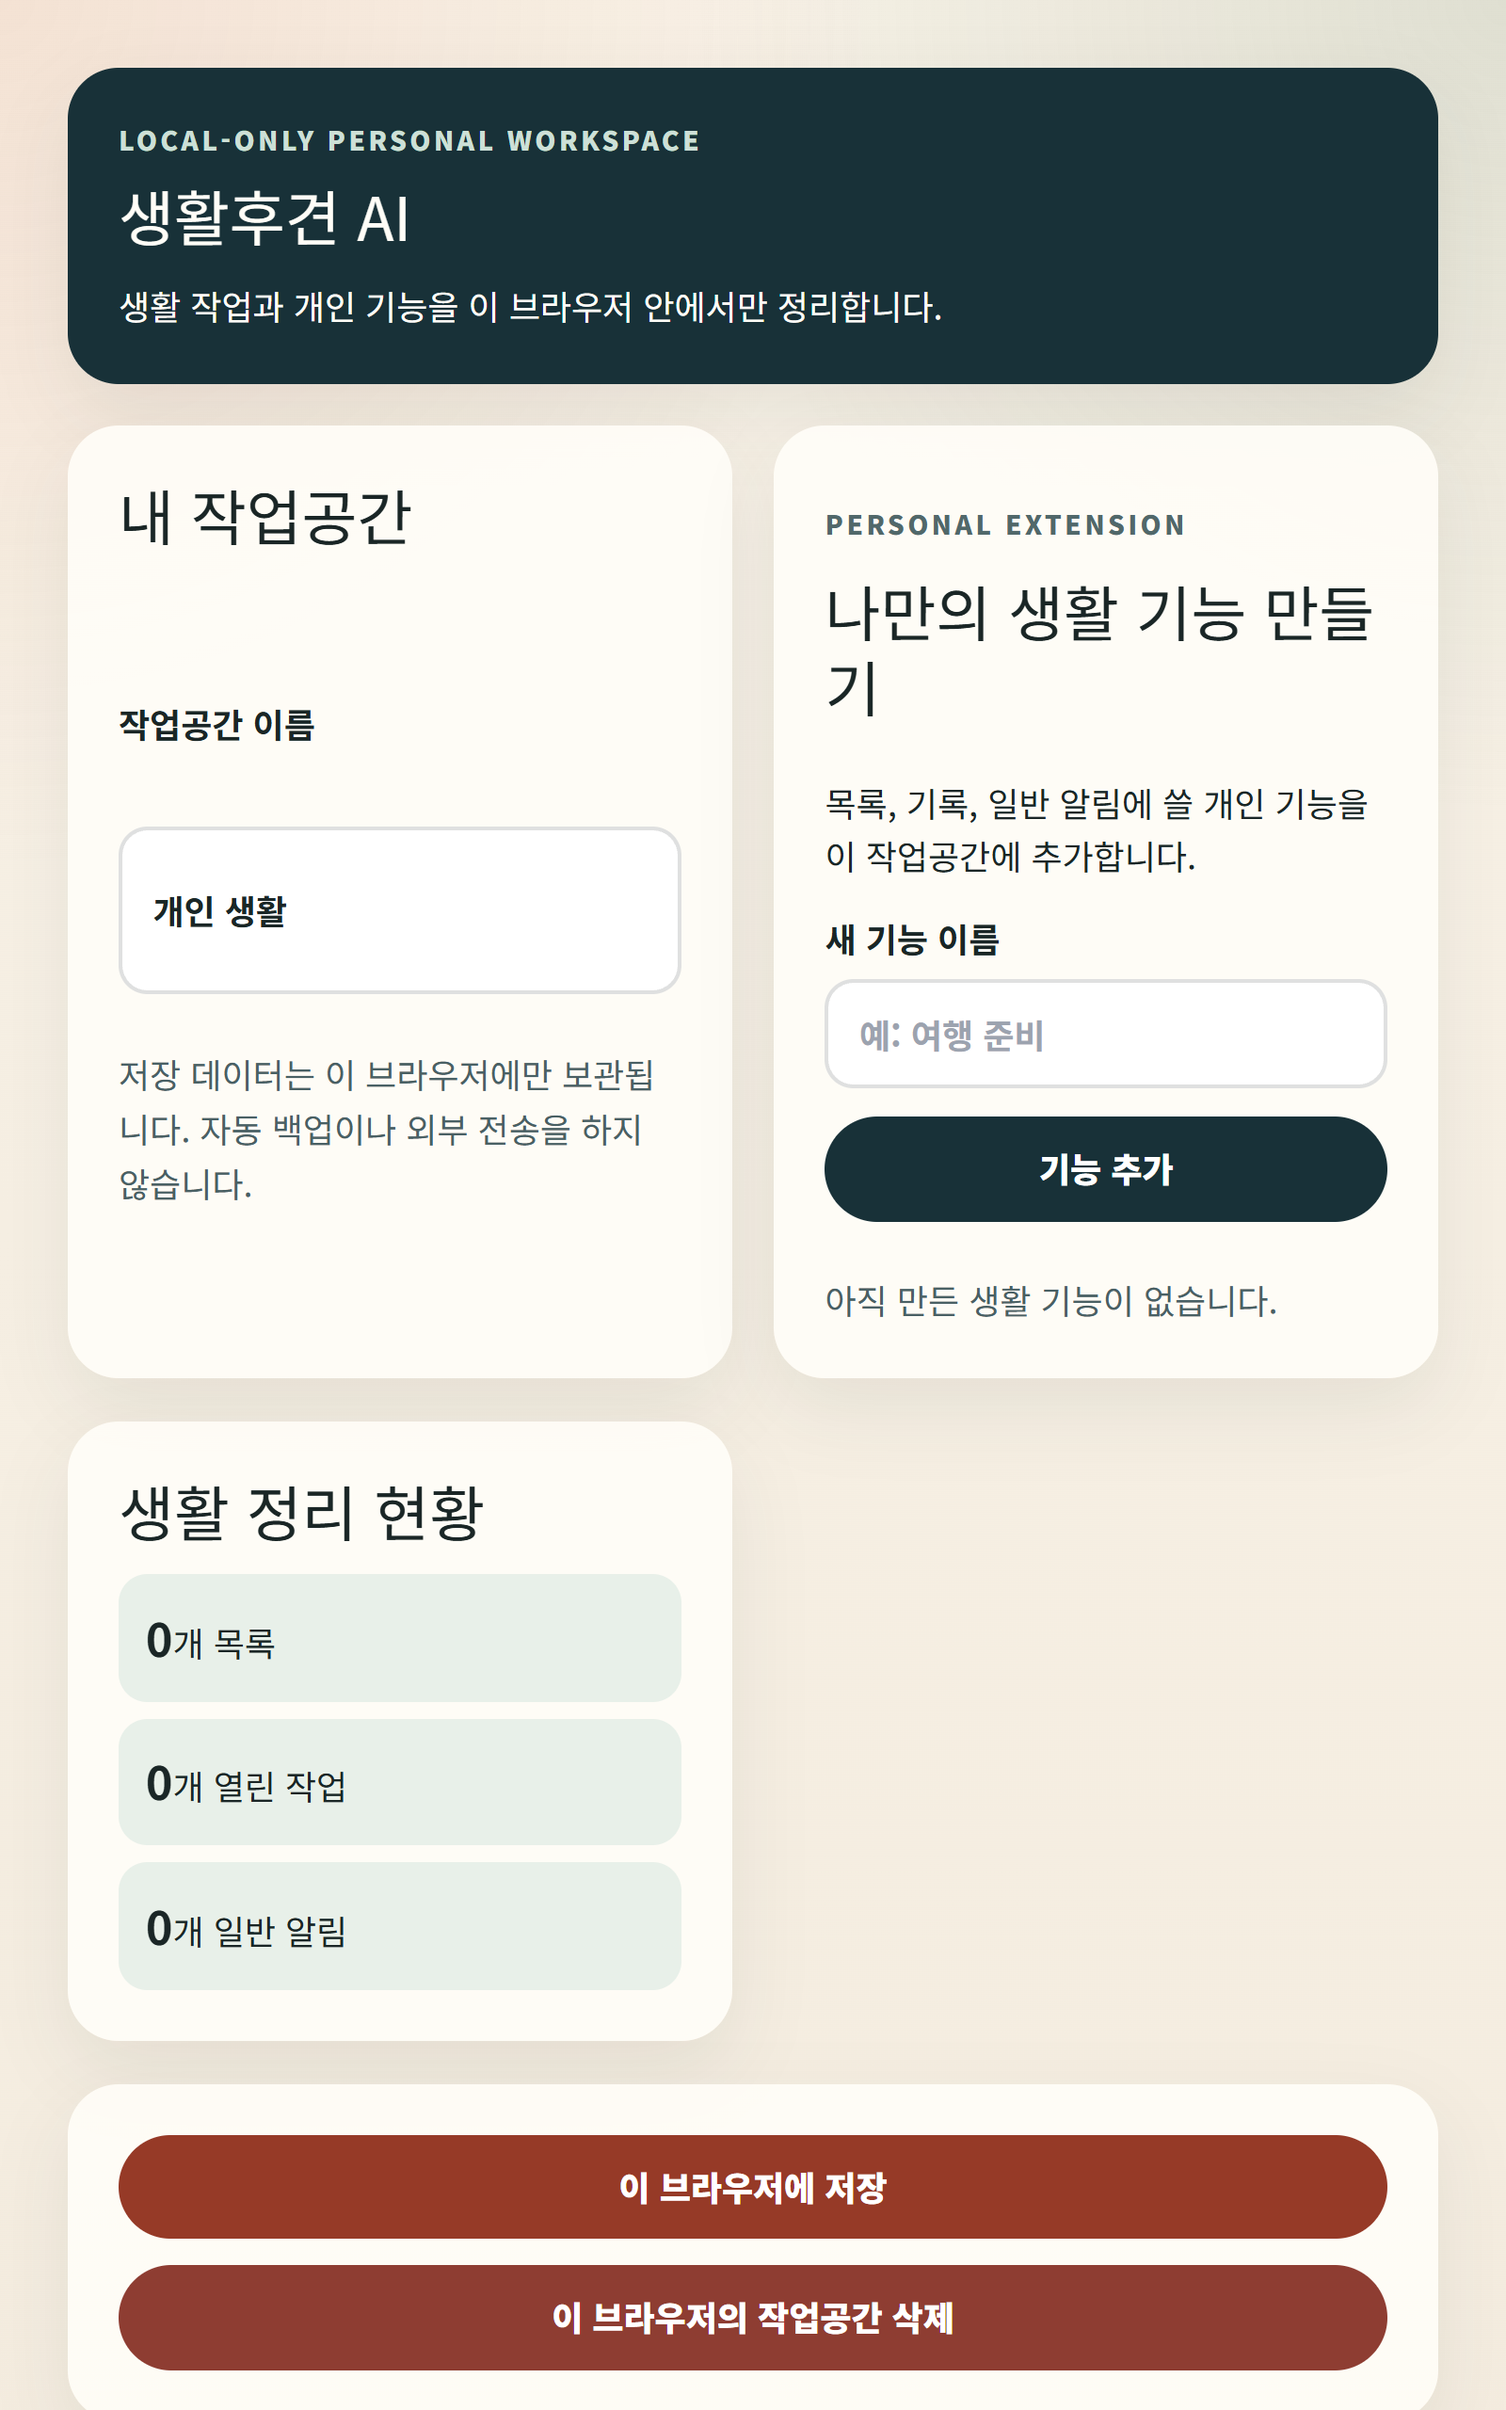
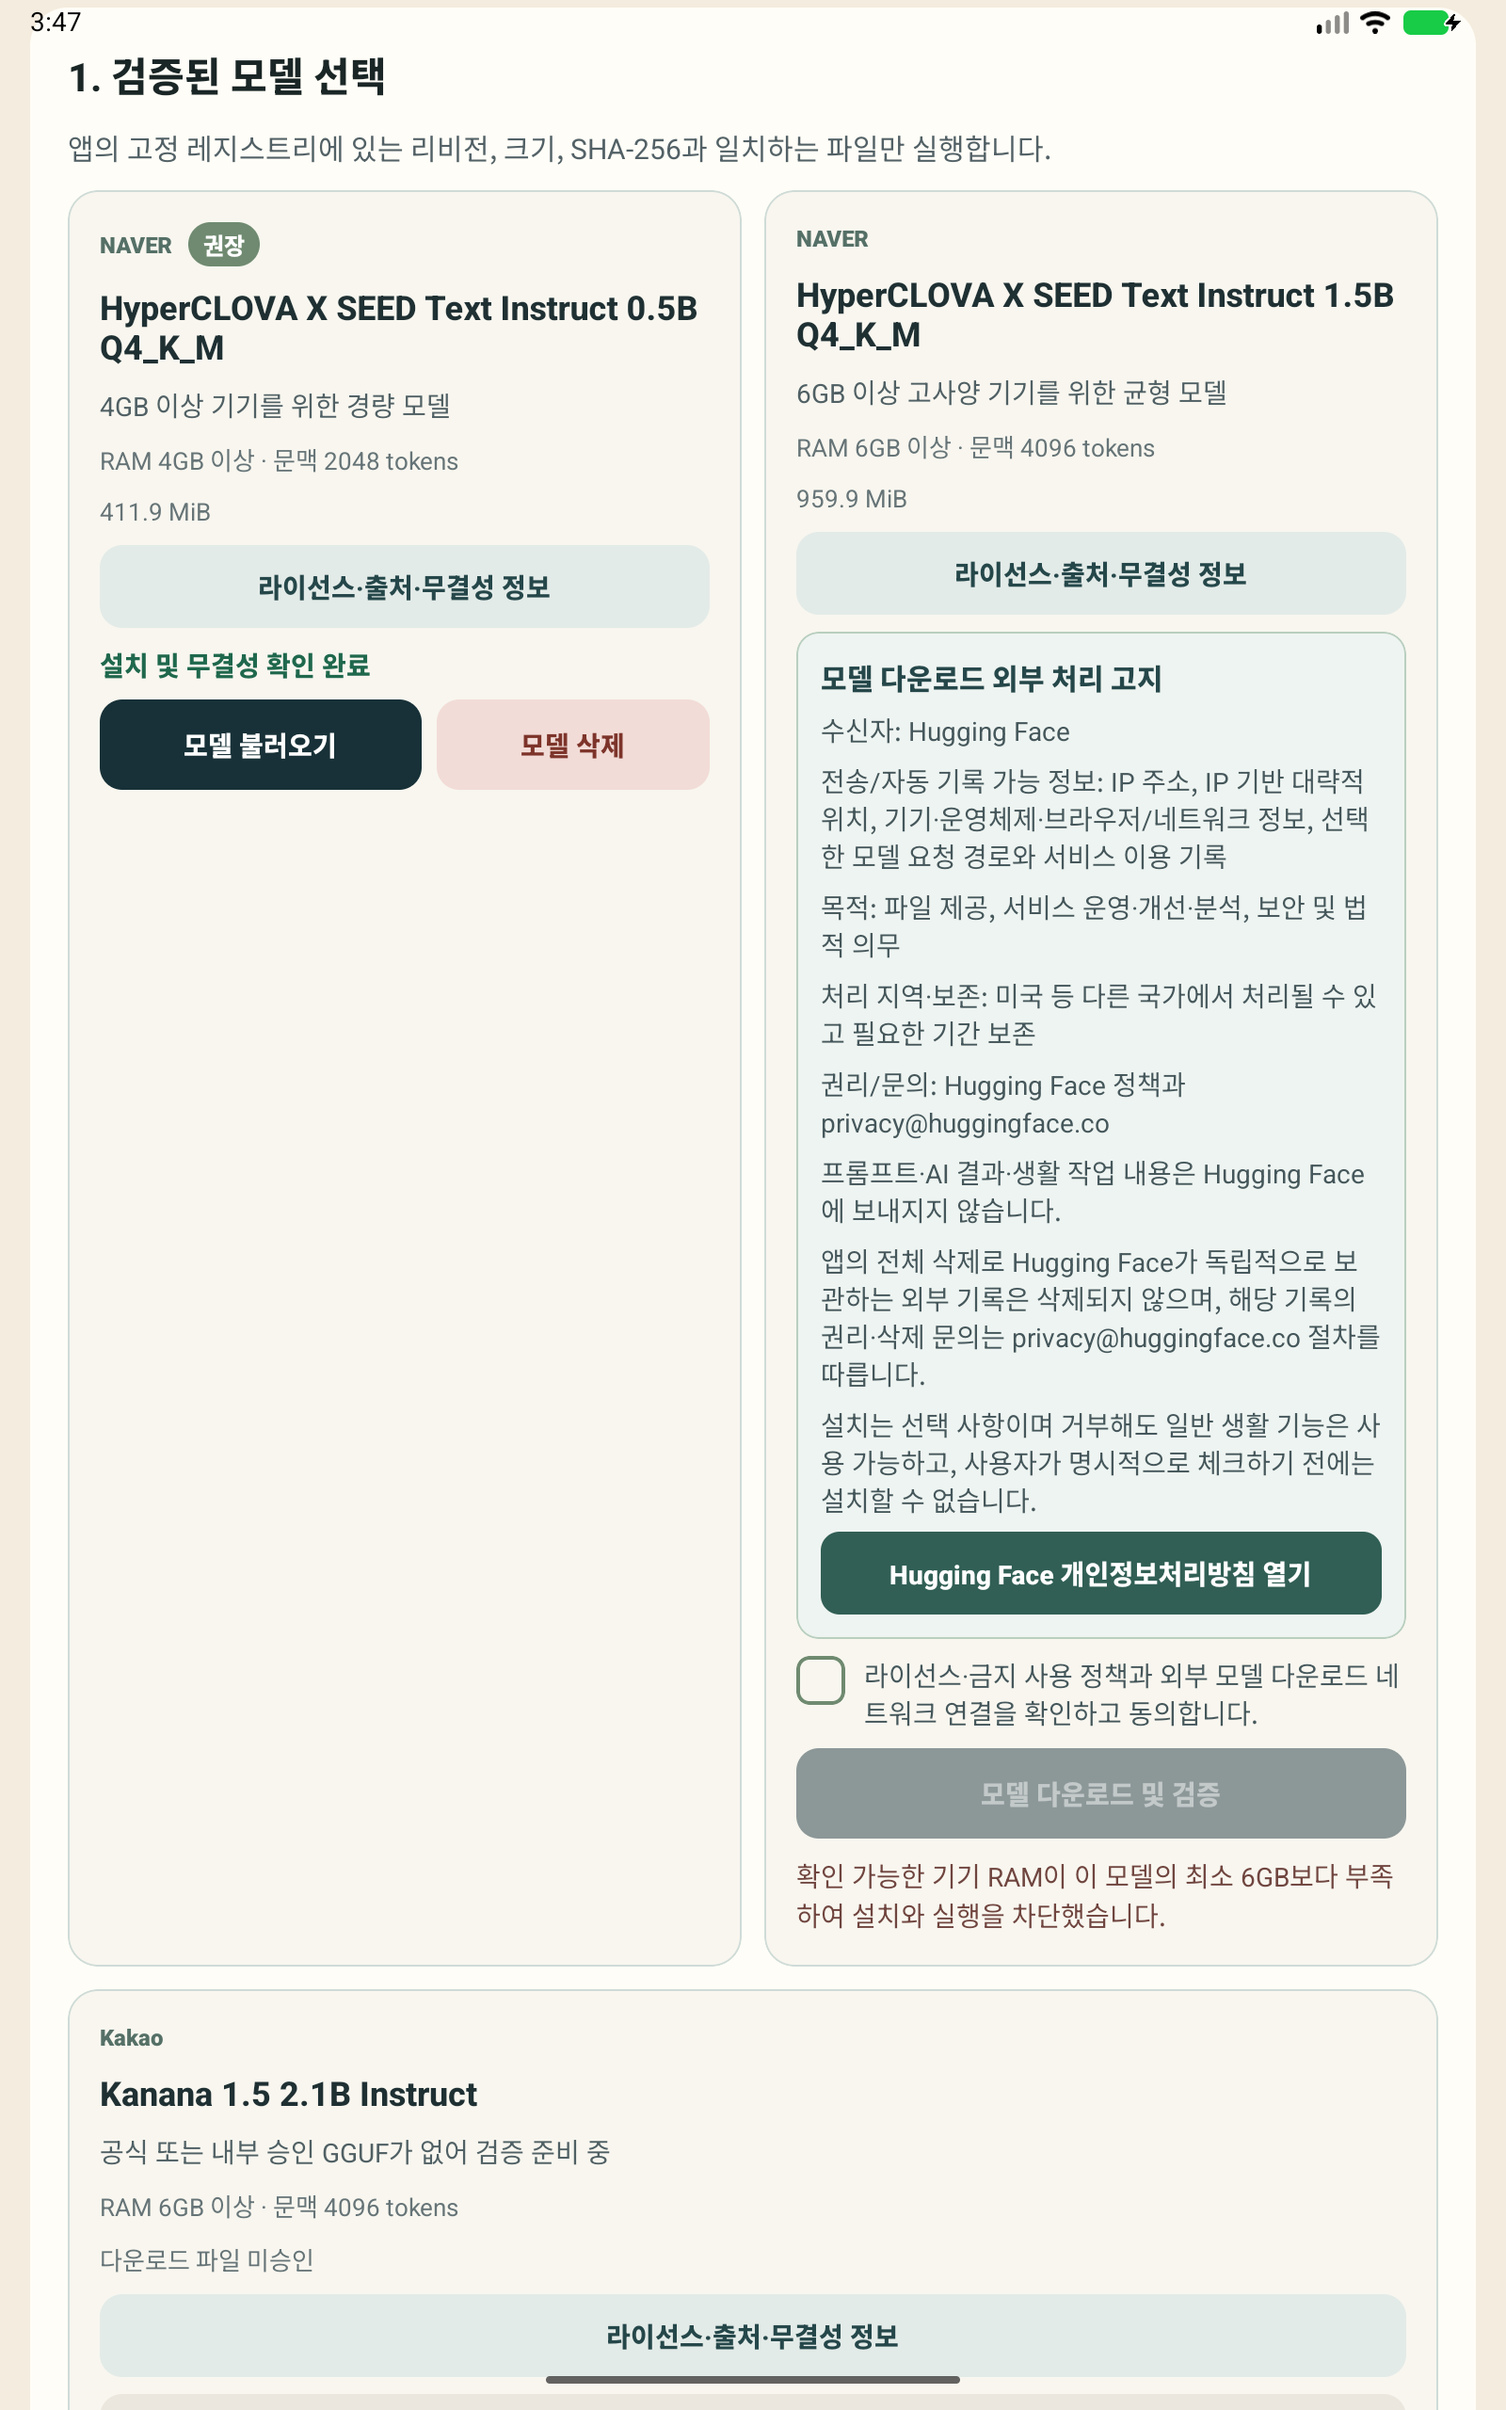
docs: Android 비공개 테스트 후보 증거와 자산 확정

diff --git a/docs/security/android-aab-evidence-2026-07-31.md b/docs/security/android-aab-evidence-2026-07-31.md
@@ -1,0 +1,104 @@
+# Android 1.1.0 (7) 비공개 테스트 후보 증거
+
+- 검증일: 2026-07-31 (Asia/Seoul)
+- 대상 소스: `d990c4784526f9eccc33ee558579dc806b9bbaea`
+- 앱: `생활후견 AI` / `com.sinmb.careguardianai`
+- 판정: **합성·비민감 데이터 비공개 테스트용 AAB 후보 PASS**
+- 남은 외부 단계: 이 AAB와 아래 Android-native 자산을 Play Console 문안·선언·Data safety에 대조하고 기존 비공개 테스트 release를 교체
+
+이 판정은 합성 데이터 비공개 테스트 후보에만 적용합니다. Samsung/Pixel 물리 기기 증거와 발견사항 처리가 끝나기 전에는 실제 개인정보·민감정보 사용과 정식 출시를 허용하지 않습니다.
+
+## 1. EAS production 빌드
+
+| 항목 | 확인값 |
+|---|---|
+| EAS build ID | `28f9bafa-73a7-4316-a1d5-1764ef6dd516` |
+| 상태 | `FINISHED` |
+| source SHA | `d990c4784526f9eccc33ee558579dc806b9bbaea` |
+| EAS fingerprint | `49fad510f2d57623475a94331872c1366a34f531` |
+| versionName / versionCode | `1.1.0` / `7` |
+| 완료 시각 | `2026-07-31T04:05:19.396Z` |
+| AAB 크기 | `98,668,069` bytes |
[1 lines of base64/hex data omitted]
+
+EAS의 AAB JAR 서명은 `jarsigner -verify -verbose -certs`에서 `jar verified`로 확인했습니다. 로컬 universal APK는 AAB 검증과 에뮬레이터 설치를 위해 bundletool이 별도 디버그 키로 서명한 QA 파생물이며 Play에 업로드하거나 배포하지 않습니다.
+
+앞선 원격 실패의 원인은 Windows에서 생성된 `apps/mobile/android`와 절대 경로 기반 stale autolinking 파일이 EAS archive에 포함된 것이었습니다. `.easignore` 출시 게이트와 fresh archive 검사로 생성 Android 트리를 제외한 뒤 같은 production 흐름이 성공했습니다. 상세 원인과 archive 검사는 [EAS archive 검사 증거](./eas-archive-inspection-2026-07-31.md)에 기록했습니다.
+
+## 2. AAB 정적 검사
+
+bundletool manifest, 저장소의 CPU-only 검사기, AAB와 universal APK 쌍의 원격 푸시 부재 검사로 다음을 확인했습니다.
+
+| 검사 | 결과 |
+|---|---|
+| package | `com.sinmb.careguardianai` |
+| version | `1.1.0 (7)` |
+| minSdk / targetSdk / compileSdk | `24` / `36` / `36` |
+| Android 백업 | `android:allowBackup="false"` |
+| debug surface | AAB manifest에 `android:debuggable` 없음 |
+| CPU ABI | `arm64-v8a`, `x86_64` CPU rnllama JNI 확인 |
+| 가속기 산출물 | Hexagon, OpenCL, HTP, Vulkan, GPU 관련 AAB entry `0` |
+| 원격 푸시 | AAB `776` entries + universal APK `728` entries, DEX package gate 포함 `PASS` |
+| 광고·분석 | Firebase Messaging/Installations, Cloud Messaging/DataTransport, ShortcutBadger, 광고 ID namespace `0` |
+| AAB CPU-only 증거 | `cpu-only-aab-d990c47-evidence.json`, AAB SHA와 일치 |
+
+AAB가 선언한 권한은 아래뿐입니다.
+
+- `android.permission.INTERNET`
+- `android.permission.POST_NOTIFICATIONS`
+- `android.permission.USE_BIOMETRIC`
+- `android.permission.USE_FINGERPRINT`
+- `android.permission.RECEIVE_BOOT_COMPLETED`
+- Android 14 이상용 `android.permission.DETECT_SCREEN_CAPTURE`
+- 앱 전용 `com.sinmb.careguardianai.DYNAMIC_RECEIVER_NOT_EXPORTED_PERMISSION`
+
+카메라, 마이크, 연락처, 위치, 외부 저장소, Health Connect, `AD_ID`, 정확 알람 권한은 없습니다. Android release merged manifest 계약 검사도 `PASS`했습니다.
+
+## 3. universal APK 설치·실행
+
+bundletool `1.18.3`으로 위 AAB에서 universal APK를 만들었습니다.
+
+| 항목 | 확인값 |
+|---|---|
+| universal APK 크기 | `167,664,835` bytes |
[2 lines of base64/hex data omitted]
+| 설치 대상 | Android x86_64 emulator `emulator-5554` |
+| 설치 결과 | `Success`, `1.1.0 (7)`, target SDK `36` |
+| 실행 결과 | `com.sinmb.careguardianai/.MainActivity`가 top-resumed, 앱 process 유지, 치명적 예외 없음 |
+| 첫 화면 | 빈 개인 생활 작업공간, 오늘·목록·기능 만들기·로컬 AI·설정 탭 확인 |
+
+검증 후 QA 앱 데이터와 앱을 제거했습니다. 임시 기기 PIN을 삭제하고 화면 크기·밀도와 animation scale을 기본값으로 복원했으며 Wi-Fi와 mobile data를 활성 상태로 확인했습니다.
+
+같은 source SHA에서 만든 x86_64 로컬 release QA APK도 설치·실행과 manifest 검사를 통과했습니다. 이 APK는 디버그 인증서로 서명된 비배포 QA 산출물입니다.
+
+| 항목 | 확인값 |
+|---|---|
+| x86_64 QA APK 크기 | `52,159,310` bytes |
[2 lines of base64/hex data omitted]
+
+## 4. Android-native Play 스크린샷
+
+합성·비민감 생활 데이터만 사용한 Android 앱 화면 8장을 `docs/screenshots/`에 반영했습니다. 모든 PNG는 8-bit opaque RGB, 8MB 미만, 장변/단변 비율 2:1 이하입니다.
+
+| 파일 | 크기 | SHA-256 |
+|---|---:|---|
[8 lines of base64/hex data omitted]
+
+Production 앱은 `usePreventScreenCapture("life-steward-personal-workspace")`를 유지하므로 Android screencap으로 등록 이미지를 만들 수 없습니다. 캡처에는 production과 기능·화면 소스가 같은 격리 복제본을 사용하고 캡처 차단 hook 두 줄만 일시적으로 제거했습니다. 이 캡처용 코드는 커밋·AAB·QA 설치 후보에 포함하지 않았고, production `App.tsx`의 hook 존재를 다시 확인했습니다.
+
[1 lines of base64/hex data omitted]
+
+## 5. 로컬 AI 대표 합성 QA 범위
+
+UI와 로컬 AI 기능 소스가 같은 exact-source 후보에서 HyperCLOVA X SEED Text Instruct 0.5B의 고정 revision, byte size, SHA-256 검증과 CPU load를 확인했습니다. 원문 발췌는 통과했고 문장부호 정리·제목·체크리스트 시도는 엄격한 출력 검증으로 `output_blocked`되어 결과가 저장되지 않았습니다. 차단 후 모델 재로딩과 전체 삭제는 통과했습니다.
+
+오프라인 창에서는 설치 모델 재로딩은 통과했지만 70초 안에 추론 결과가 나오지 않아 성공으로 주장하지 않습니다. Samsung/Pixel의 arm64 성능·품질·알림·삭제·네트워크 관찰은 합성 데이터 비공개 테스트 중 계속 수집합니다.

diff --git a/docs/security/private-test-readiness-2026-07-30.md b/docs/security/private-test-readiness-2026-07-30.md
@@ -2,7 +2,7 @@
 
 - 기준일: 2026-07-30 (Asia/Seoul)
 - 대상: `생활후견 AI` Android `1.1.0` / `versionCode 7`
-- 판정: **합성·비민감 데이터 비공개 테스트는 final AAB·정적 검사·Android-native 스크린샷·Console 대조 후 시작 가능**. Samsung/Pixel 증거 완료 전 실제 개인정보·민감정보 단계와 정식 출시는 `NO-GO`
+- 판정: **final AAB·정적 검사·Android-native 스크린샷은 완료했고, Play Console 문안·선언·Data safety 대조 후 합성·비민감 데이터 비공개 테스트를 시작할 수 있음**. Samsung/Pixel 증거 완료 전 실제 개인정보·민감정보 단계와 정식 출시는 `NO-GO`
 
 ## 현재 구현 근거
 
@@ -34,7 +34,7 @@
 | 항목 | 현재 상태 | 해소 기준 |
 |---|---|---|
 | 삭제·CSP·감사 정책 | 소스 수준 경계와 검증 게이트가 구현되어 있습니다. | final AAB 정적 검사 후 비공개 테스트 중 물리 기기에서 삭제 증거를 수집하고, 정식 출시 전 전체 증거를 재확인 |
-| 현재 스크린샷 | 실제 웹 PWA 렌더이며 잠정 검토 자산입니다. Android 앱 화면으로 제출할 수 없습니다. | Expo Android 실제 화면으로 phone 4장·tablet 4장을 재캡처해 같은 파일을 교체하는 출시 차단 게이트 |
+| Android 후보·스크린샷 | EAS production AAB `1.1.0 (7)`의 CPU-only·권한·원격 푸시 부재 검사와 universal APK 설치·실행을 통과했습니다. Android-native phone 4장·tablet 4장도 교체·검증했습니다. | `android-aab-evidence-2026-07-31.md`의 AAB SHA·스크린샷 해시와 Console 표시값을 대조하고 기존 release·자산을 교체 |
 
 ## 현재 범위와 금지 범위
 
@@ -44,8 +44,8 @@
 
 1. `npm ci`, 전체 테스트, 웹 build, mobile typecheck를 새 lockfile에서 통과
 2. Expo prebuild로 name `생활후견 AI`, version `1.1.0`, versionCode `7`, package·EAS 식별자 보존 확인
-3. final AAB의 권한, ABI, `allowBackup=false`, debug/development surface 부재 정적 검사
-4. Android Expo 실제 화면으로 phone·tablet 스크린샷 재캡처 및 현재 웹 PNG 교체
+3. final AAB의 권한, ABI, `allowBackup=false`, debug/development surface 부재 정적 검사 — **완료**
+4. Android Expo 실제 화면으로 phone·tablet 스크린샷 재캡처 및 현재 웹 PNG 교체 — **완료**
 5. Play Console의 Productivity·타깃 연령·Health apps declaration·최신 문안·자산·Data safety를 final AAB와 대조
 6. 삭제, CSP, production 의존성 위험 승인 게이트의 현재 증거와 책임자·만료일 확인
 

diff --git a/docs/store-listing.md b/docs/store-listing.md
@@ -71,7 +71,7 @@
 | 광고 | 없음 | 광고 SDK·광고 ID 사용 없음 |
 | Health apps declaration | `My app doesn't provide any health features` | 건강·피트니스 데이터 접근 없음 |
 | IARC 콘텐츠 등급 | 실제 Console 설문 답변으로 확정 | 임의 등급 금지 |
-| 스크린샷 | Android 앱 화면 재캡처본만 업로드 | 현재 웹 PWA 렌더 PNG는 검토용이며 업로드 금지 |
+| 스크린샷 | Android 앱 화면 재캡처본만 업로드 | phone 4장·7-inch 2장·10-inch 2장 검증 완료. 해시와 캡처 경계는 `docs/security/android-aab-evidence-2026-07-31.md` 참조 |
 
 ### Data safety Console 입력 기준
 
